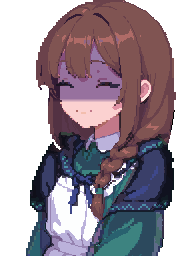
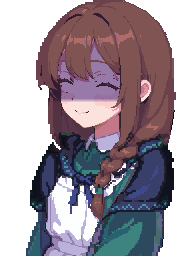
Mira's darkgrin redrawn at eight times on the head with her eyes painted over first; registered again

diff --git a/game/art/manifest.js b/game/art/manifest.js
@@ -31,7 +31,7 @@ window.ART_MANIFEST = Object.assign({
   brute: { cell: 96, scale: 0.5, foot: 8, dirs: ['down', 'side', 'up'], anims: ['idle'] },
   boss: { cell: 128, scale: 0.5, foot: 8, dirs: ['down', 'side', 'up'], anims: ['idle'] },
   kol: { cell: 64, scale: 0.5, foot: 8, dirs: ['down', 'side', 'up'], anims: ['idle'], portrait: true, moods: ['smile', 'serious'] },
-  mira: { cell: 64, scale: 0.5, foot: 8, dirs: ['down', 'side', 'up'], anims: ['idle'], portrait: true, moods: ['serious', 'blank', 'shy', 'dark', 'darkflat', 'darkside', 'fake', 'smile', 'sad'], looks: { shawl: ['dark', 'darkflat', 'darkside', 'smile', 'shy'] } },      // darkgrin is left out until it comes out right; its lines use the dark face
+  mira: { cell: 64, scale: 0.5, foot: 8, dirs: ['down', 'side', 'up'], anims: ['idle'], portrait: true, moods: ['serious', 'blank', 'shy', 'dark', 'darkflat', 'darkgrin', 'darkside', 'fake', 'smile', 'sad'], looks: { shawl: ['dark', 'darkflat', 'darkgrin', 'darkside', 'smile', 'shy'] } },
   jin: { cell: 64, scale: 0.5, foot: 8, dirs: ['down', 'side', 'up'], anims: ['idle'], portrait: true, moods: ['angry', 'serious', 'shy', 'laugh', 'panic', 'smug', 'teary', 'smile'], looks: { bun: ['smug', 'shy', 'teary'] } },
   wu: { cell: 64, scale: 0.5, foot: 8, dirs: ['down', 'side', 'up'], anims: ['idle'], portrait: true, moods: ['smile', 'surprised', 'worried'] },
   mog: { portrait: true, anims: [] },
